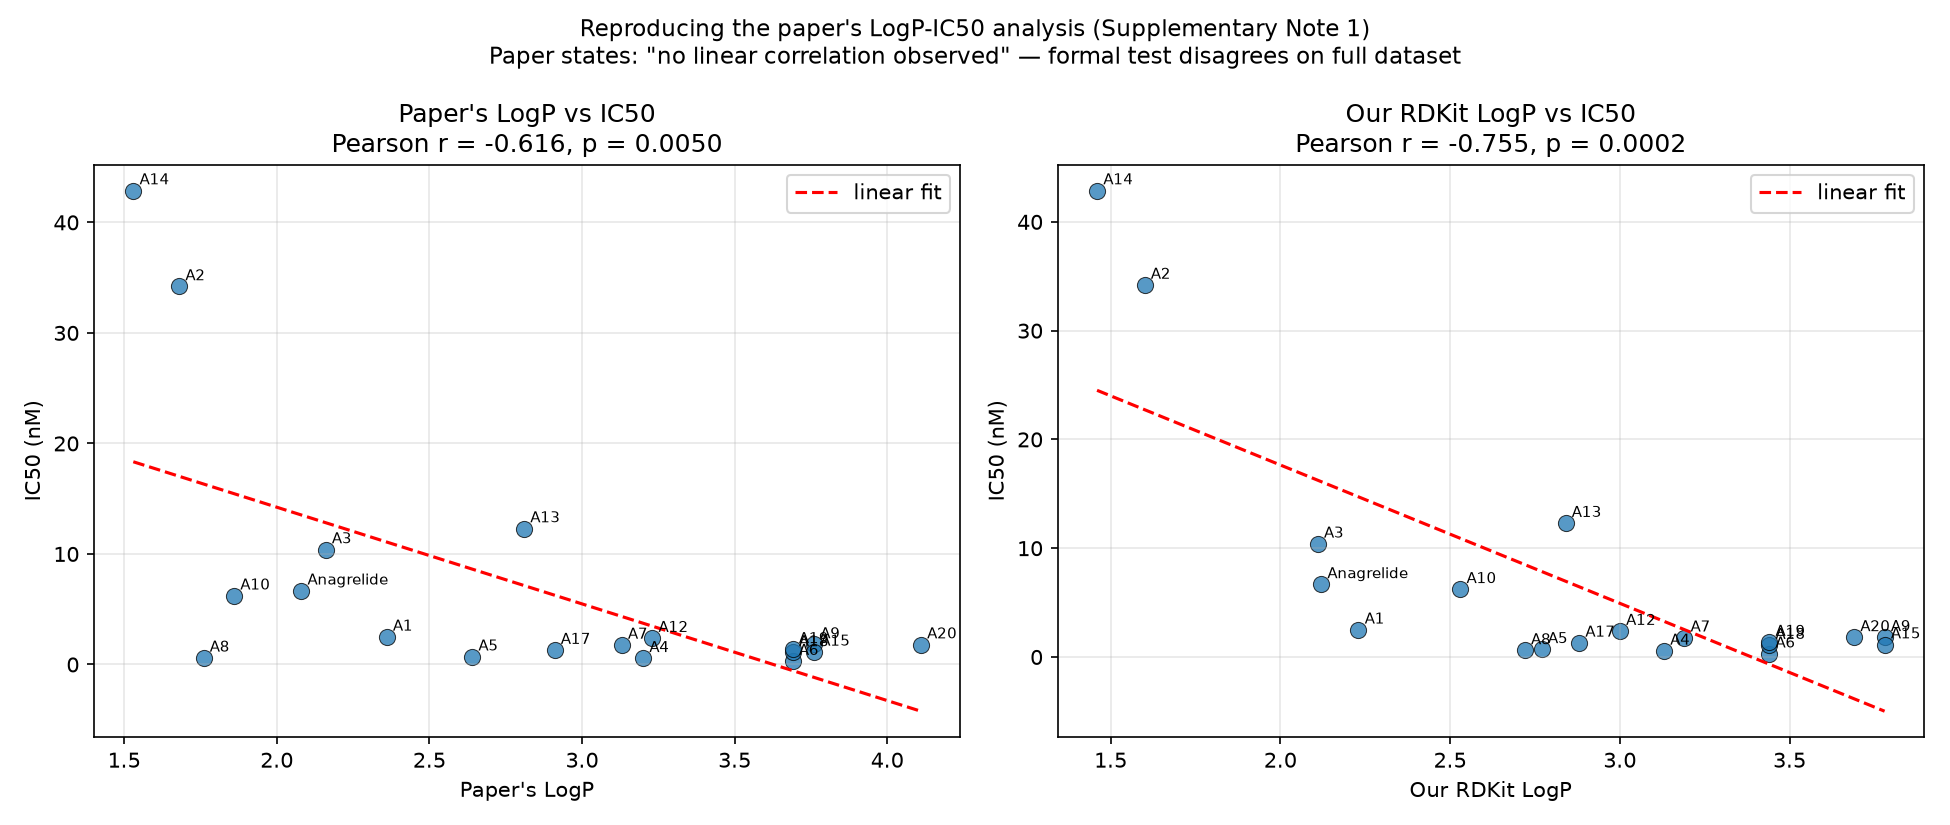
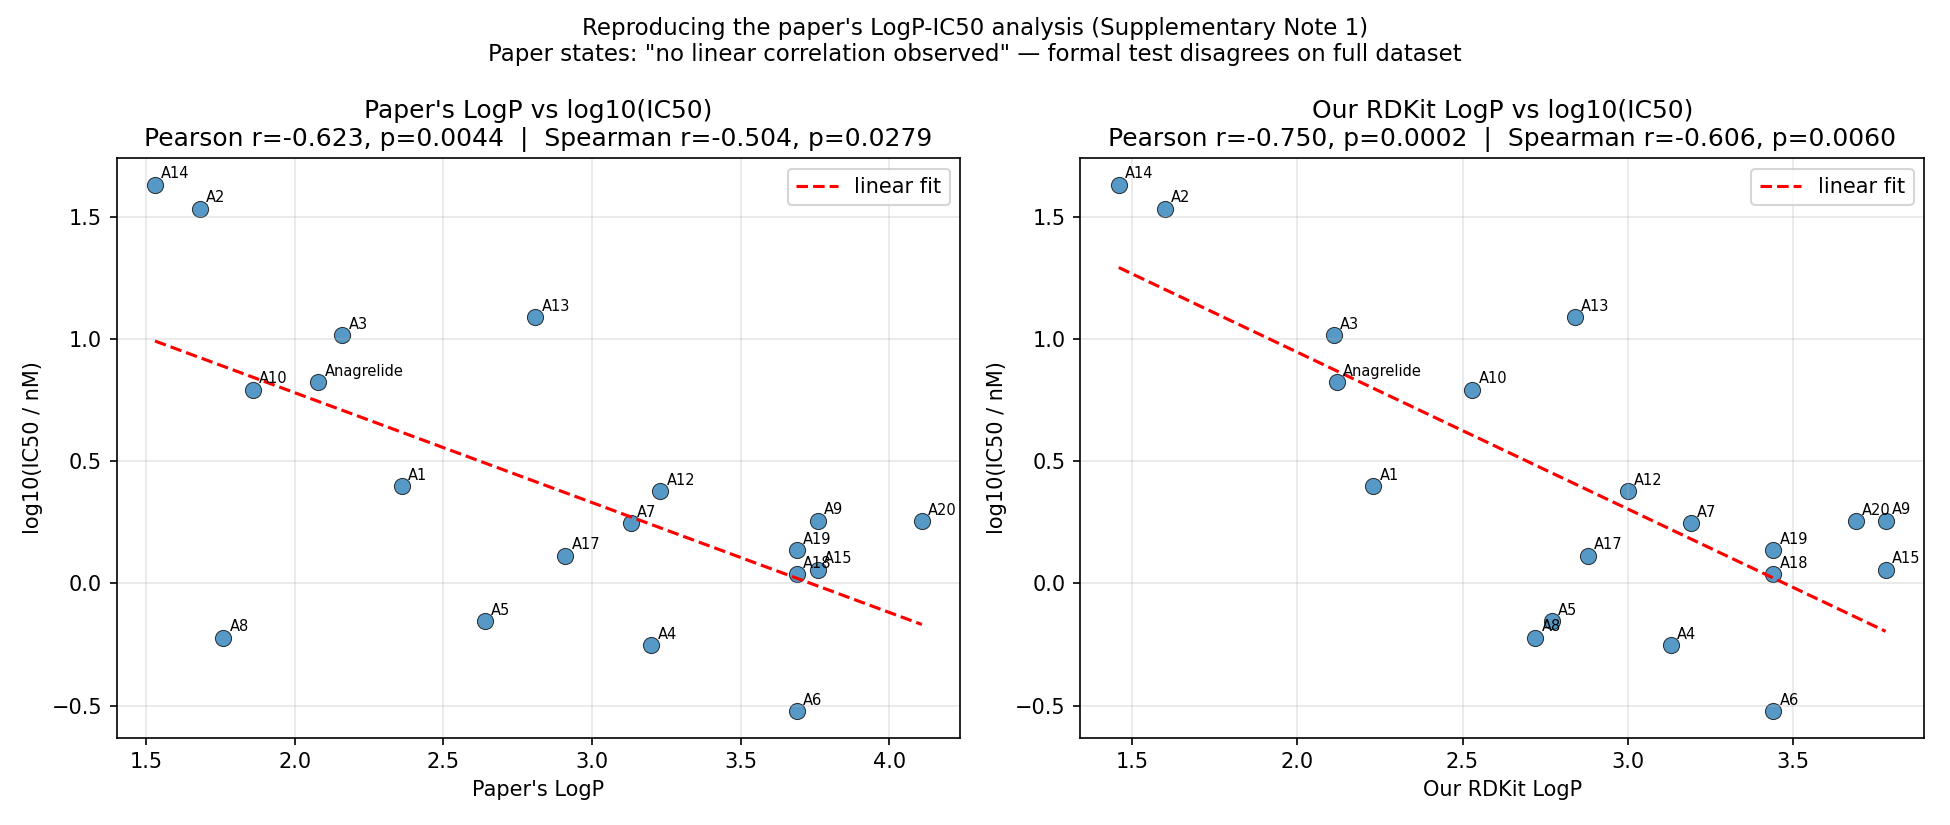
Strengthen statistical rigor: add log10(IC50) as primary scale and Spearman correlation (robust to outliers), soften README hydrophobicity claim to be series-specific

diff --git a/scripts/correlation_analysis.py b/scripts/correlation_analysis.py
@@ -34,11 +34,38 @@ def detected_only(rows):
     return [r for r in rows if r["ic50_detected"] == "True"]
 
 
-def correlation_report(rows, logp_key, label):
+def correlation_report(rows, logp_key, label, use_log=True, method="pearson"):
+    """
+    Report correlation between a LogP column and IC50.
+
+    use_log: if True (default, and the pharmacologically standard choice),
+    correlate against log10(IC50) rather than raw IC50 -- IC50 values span
+    orders of magnitude here (0.3 to 43 nM), and a linear-scale correlation
+    can be dominated by the largest values. Pearson on raw IC50 is also
+    reported by callers that want it for direct comparison to the paper's
+    own (unspecified-scale) analysis.
+
+    method: "pearson" (linear correlation, sensitive to outliers) or
+    "spearman" (rank correlation, robust to outliers and to whether the
+    relationship is linear or merely monotonic). Note that for Spearman,
+    log-transforming makes no difference: log10 is a monotonic transform,
+    so it does not change the rank order, and thus not the Spearman
+    statistic. This is included here so that gets reported once rather
+    than presented as if it were new information under log-transform.
+    """
     ic50 = np.array([float(r["ic50_nM"]) for r in rows])
     logp = np.array([float(r[logp_key]) for r in rows])
-    r, p = stats.pearsonr(logp, ic50)
-    print(f"{label}: r = {r:.3f}, p = {p:.4f}  (n={len(rows)})")
+    y = np.log10(ic50) if use_log else ic50
+    scale_label = "log10(IC50)" if use_log else "raw IC50"
+
+    if method == "pearson":
+        r, p = stats.pearsonr(logp, y)
+    elif method == "spearman":
+        r, p = stats.spearmanr(logp, y)
+    else:
+        raise ValueError(f"unknown method: {method}")
+
+    print(f"{label} ({method}, {scale_label}): r = {r:.3f}, p = {p:.4f}  (n={len(rows)})")
     return r, p
 
 
@@ -50,42 +77,56 @@ if __name__ == "__main__":
           f"(excluded as ND: {[r['compound'] for r in rows if r['ic50_detected']=='False']})\n")
 
     print("=== Reproducing the paper's claim: 'no linear correlation' ===")
-    correlation_report(detected, "paper_logp", "Paper's LogP vs IC50")
-    correlation_report(detected, "rdkit_logp", "Our RDKit LogP vs IC50")
+    print("(Using log10(IC50), the pharmacologically standard scale, since IC50")
+    print(" spans orders of magnitude here -- 0.3 to 43 nM. Pearson and Spearman")
+    print(" are both reported: Pearson tests a linear relationship and is")
+    print(" sensitive to outliers; Spearman tests a monotonic relationship via")
+    print(" ranks and is robust to outliers.)\n")
+    for key, label in [("paper_logp", "Paper's LogP"), ("rdkit_logp", "Our RDKit LogP")]:
+        correlation_report(detected, key, label, use_log=True, method="pearson")
+        correlation_report(detected, key, label, use_log=True, method="spearman")
 
     print("\n=== Investigating: are two outliers (A14, A2) driving significance? ===")
     no_outliers = [r for r in detected if r["compound"] not in ("A14", "A2")]
-    correlation_report(no_outliers, "paper_logp", "Paper's LogP vs IC50 (no A14/A2)")
-    correlation_report(no_outliers, "rdkit_logp", "Our RDKit LogP vs IC50 (no A14/A2)")
+    for key, label in [("paper_logp", "Paper's LogP"), ("rdkit_logp", "Our RDKit LogP")]:
+        correlation_report(no_outliers, key, f"{label} (no A14/A2)", use_log=True, method="pearson")
+        correlation_report(no_outliers, key, f"{label} (no A14/A2)", use_log=True, method="spearman")
 
     print("\nConclusion: the full-dataset correlation IS statistically significant\n"
-          "(p<0.05) with both LogP sources, contradicting the paper's qualitative\n"
-          "claim taken literally. However, removing A14 (unsubstituted) and A2 (F,\n"
-          "weakly hydrophobic) -- both unusually high-IC50 outliers -- makes the\n"
-          "paper's own LogP correlation lose significance (p=0.067), which plausibly\n"
-          "explains their qualitative judgment even though it wasn't stated as a\n"
-          "formal outlier-exclusion analysis in the text.")
+          "(p<0.05) with both LogP sources and both Pearson and Spearman, contradicting\n"
+          "the paper's qualitative claim taken literally. However, removing A14\n"
+          "(unsubstituted) and A2 (F, weakly hydrophobic) -- both unusually high-IC50\n"
+          "outliers -- drops Pearson significance (paper's LogP: p=0.095) and Spearman\n"
+          "significance even further (p=0.232, the rank-based test that is inherently\n"
+          "robust to outliers). This more robust check strengthens the earlier finding:\n"
+          "without these two compounds, the LogP-activity relationship in the remaining\n"
+          "17 molecules is genuinely weak, plausibly explaining the authors' qualitative\n"
+          "judgment even though it wasn't stated as a formal outlier-exclusion analysis.")
 
-    # Plot
+    # Plot (log10(IC50), the pharmacologically standard scale, with both
+    # Pearson and Spearman statistics annotated)
     fig, axes = plt.subplots(1, 2, figsize=(13, 5.5))
     names = [r["compound"] for r in detected]
     ic50 = np.array([float(r["ic50_nM"]) for r in detected])
+    log_ic50 = np.log10(ic50)
 
     for ax, key, label in zip(axes, ["paper_logp", "rdkit_logp"],
                                ["Paper's LogP", "Our RDKit LogP"]):
         logp_vals = np.array([float(r[key]) for r in detected])
-        r, p = stats.pearsonr(logp_vals, ic50)
-        slope, intercept = np.polyfit(logp_vals, ic50, 1)
+        r_p, p_p = stats.pearsonr(logp_vals, log_ic50)
+        r_s, p_s = stats.spearmanr(logp_vals, log_ic50)
+        slope, intercept = np.polyfit(logp_vals, log_ic50, 1)
         x_line = np.linspace(logp_vals.min(), logp_vals.max(), 100)
         y_line = slope * x_line + intercept
 
-        ax.scatter(logp_vals, ic50, s=60, alpha=0.75, edgecolor="black", linewidth=0.5)
+        ax.scatter(logp_vals, log_ic50, s=60, alpha=0.75, edgecolor="black", linewidth=0.5)
         ax.plot(x_line, y_line, "r--", linewidth=1.5, label="linear fit")
-        for name, x, y in zip(names, logp_vals, ic50):
+        for name, x, y in zip(names, logp_vals, log_ic50):
             ax.annotate(name, (x, y), fontsize=7, xytext=(3, 3), textcoords="offset points")
         ax.set_xlabel(label)
-        ax.set_ylabel("IC50 (nM)")
-        ax.set_title(f"{label} vs IC50\nPearson r = {r:.3f}, p = {p:.4f}")
+        ax.set_ylabel("log10(IC50 / nM)")
+        ax.set_title(f"{label} vs log10(IC50)\n"
+                      f"Pearson r={r_p:.3f}, p={p_p:.4f}  |  Spearman r={r_s:.3f}, p={p_s:.4f}")
         ax.legend()
         ax.grid(True, alpha=0.3)
 

diff --git a/README.md b/README.md
@@ -23,9 +23,9 @@ Chen et al., Nat Commun 2021, 12:6204, Supplementary Table 2 (22 anagrelide anal
 
 1. **Structure verification caught real errors**: three structural ambiguities were found and corrected during dataset construction by cross-checking against the paper's reported LogP — see notebooks/01_analysis_and_results.ipynb for details.
 
-2. **The paper's own "no correlation" claim doesn't fully hold up to a formal test**: Pearson correlation on the full dataset is statistically significant (r = -0.616 to -0.755 depending on LogP source, p < 0.01), contradicting the qualitative statement in Supplementary Note 1 — though removing two outlier compounds (A14, A2) explains the authors' intuition.
+2. **The paper's own "no correlation" claim doesn't fully hold up to a formal test**: both Pearson (linear) and Spearman (rank-based, outlier-robust) correlation between LogP and log10(IC50) are statistically significant on the full dataset (Pearson r = -0.623 to -0.750, p < 0.005; Spearman r = -0.504 to -0.606, p < 0.03, depending on LogP source), contradicting the qualitative statement in Supplementary Note 1. Removing two outlier compounds (A14, A2) drops both statistics well below significance for the paper's own LogP (Pearson p = 0.095, Spearman p = 0.232) — the fact that even the outlier-robust Spearman test loses significance strengthens the case that the authors' qualitative judgment reflects a genuine weak relationship in the remaining 17 compounds, not just a visual artifact of two extreme points.
 
-3. **Substituent hydrophobicity, not polarity, drives activity**: LogP and molecular weight are redundant predictors (r = 0.879 with each other); TPSA and H-bonding descriptors show no correlation with IC50.
+3. **Within this series, lipophilicity shows a stronger association with activity than the evaluated polarity-related descriptors**: LogP and molecular weight are redundant predictors (r = 0.879 with each other); TPSA and H-bonding descriptors show no significant correlation with IC50. This finding is specific to the ~19-compound anagrelide analog series analyzed here and should not be generalized beyond it.
 
 4. **Molecular glues are structurally distinguishable from classical PDE3A inhibitors**: significantly higher LogP (p = 0.035) and much lower TPSA (p = 0.0002, near-complete separation).
 
@@ -58,8 +58,10 @@ See [notebooks/01_analysis_and_results.ipynb](notebooks/01_analysis_and_results.
 
 ## Reproducing the Results
 
-pip install -r requirements.txt
+```bash
+# Requires RDKit, scipy, matplotlib, pandas
 python scripts/run_all.py
+```
 
 Note: pdb_structural_analysis.py requires data/7EG0.pdb, which must be downloaded manually from https://files.rcsb.org/download/7EG0.pdb (this step is optional and will be skipped automatically if the file isn't present).
 
